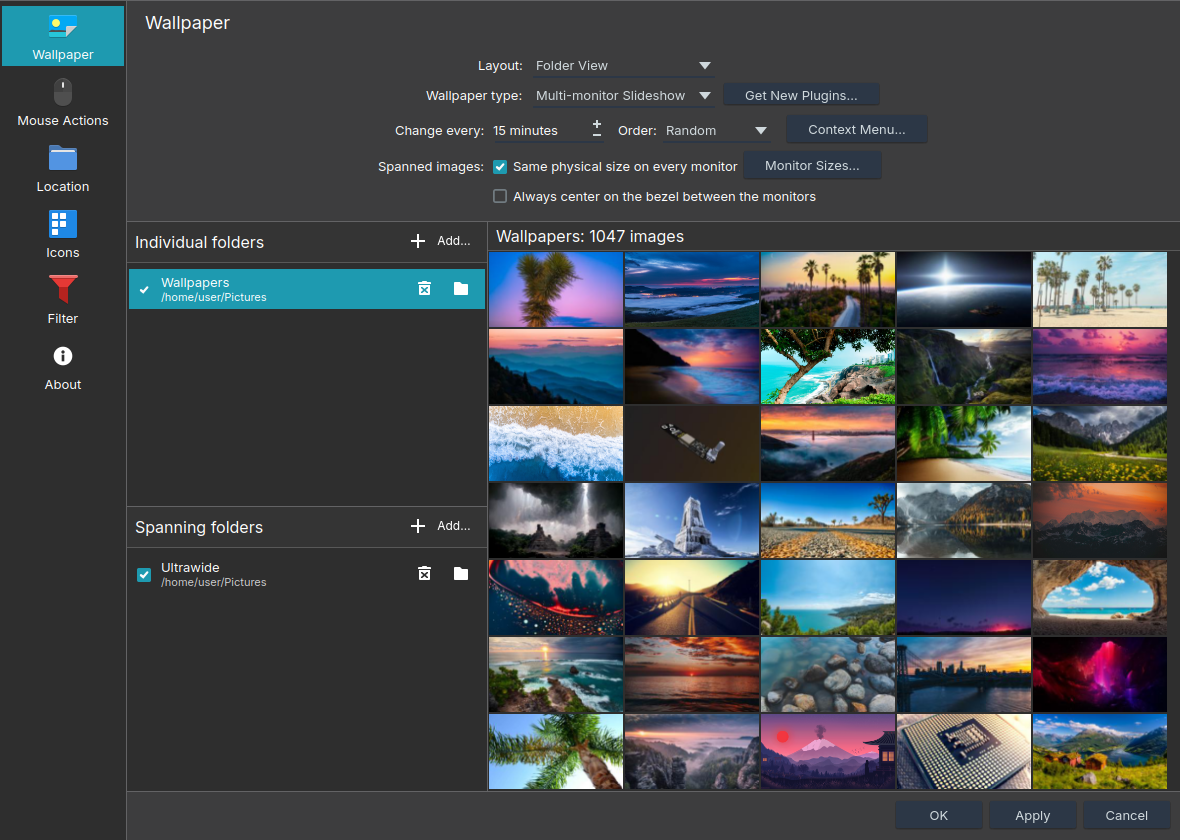
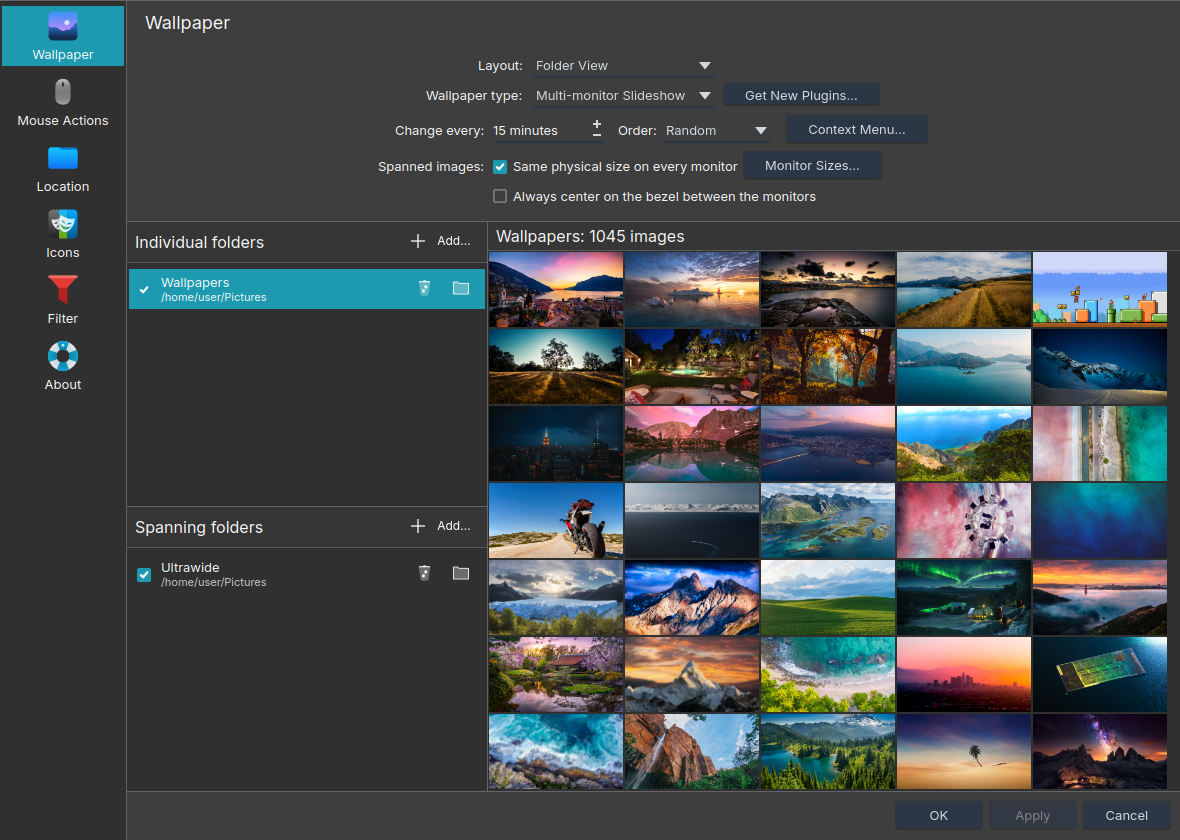
New settings screenshots: both folder views and the three popups
settings.png is retaken, settings-spanning.png shows a spanning folder's
wide previews, and order.png, context-menu.png and monitor-sizes.png show
each popup open over the whole dialog.

diff --git a/docs/index.html b/docs/index.html
@@ -83,8 +83,12 @@ utils/deploy.sh</pre>
       <li>Choose how often the image changes and in which order, then click <b>Apply</b>.</li>
     </ol>
     <figure class="shot">
-      <img src="images/settings.png" width="1180" height="840" alt="The Desktop Folder Settings dialog with Multi-monitor Slideshow as the wallpaper type: Change every, Order and Context Menu, the spanned-image options, the individual and spanning folders on the left, and thumbnails of the selected folder on the right">
+      <img src="images/settings.png" width="1180" height="840" alt="The Desktop Folder Settings dialog with Multi-monitor Slideshow as the wallpaper type: Change every, Order and Context Menu, the spanned-image options, the individual and spanning folders on the left, and thumbnails of the selected individual folder on the right">
       <figcaption>The settings, under Desktop and Wallpaper. Untick a folder to leave it out without removing it; click one to see its images.</figcaption>
+    </figure>
+    <figure class="shot">
+      <img src="images/settings-spanning.png" width="1180" height="840" loading="lazy" alt="The same dialog with the spanning folder selected: its wide images are shown three to a row">
+      <figcaption>A spanning folder shows wide previews.</figcaption>
     </figure>
     <p>Hover any setting for an explanation. The <a href="https://github.com/VasilKalchev/plasma-multi-monitor-slideshow#readme">README</a> covers every setting, the limitations and troubleshooting.</p>
   </section>

diff --git a/README.md b/README.md
@@ -91,7 +91,11 @@ and restarts Plasma. To update, run `git pull` and `utils/deploy.sh` again.
 
 ### Settings
 
-![The Desktop Folder Settings dialog with Multi-monitor Slideshow as the wallpaper type: Change every, Order and Context Menu, the spanned-image options, the individual and spanning folders on the left, and thumbnails of the selected folder on the right](docs/images/settings.png)
+![The Desktop Folder Settings dialog with Multi-monitor Slideshow as the wallpaper type: Change every, Order and Context Menu, the spanned-image options, the individual and spanning folders on the left, and thumbnails of the selected individual folder on the right](docs/images/settings.png)
+
+Click a folder to see its images. A spanning folder shows wide previews:
+
+![The same dialog with the spanning folder selected: its wide images are shown three to a row](docs/images/settings-spanning.png)
 
 | Setting | What it does |
 |---|---|
@@ -101,6 +105,12 @@ and restarts Plasma. To update, run `git pull` and `utils/deploy.sh` again.
 | **Same physical size on every monitor** | Scales spanned images per monitor, so they have the same real size on monitors with different pixel sizes, and lines continue straight across the bezel. |
 | **Monitor Sizes…** | The size of each monitor, as it reports it. Correct a monitor that reports a wrong size here. |
 | **Always center on the bezel between the monitors** | Off by default. Full-width images are always centered on the bezel; with this on, panoramas are too, instead of on your monitors as a whole. See below. |
+
+**Order** and **Context Menu…** open these lists:
+
+![The Order list open over the dialog: Random, A to Z, Z to A, Newest first, Oldest first](docs/images/order.png)
+
+![The Context Menu list open over the dialog: tickboxes for the "Wallpaper" separator label, Open Image, Next, Next Individual and Next Spanned](docs/images/context-menu.png)
 
 The spanned-image settings are grayed out when they make no difference,
 for example when your monitors are identical and lined up, and the reason
@@ -212,7 +222,7 @@ especially). Click **Monitor Sizes…** in the settings and enter the
 monitor's real diagonal. An arrow appears next to a corrected size to go
 back to the reported one.
 
-![The Monitor Sizes popup: each monitor by make, model and connector, with its diagonal in inches](docs/images/monitor-sizes.png)
+![The Monitor Sizes popup open over the dialog: each monitor by make, model and connector, with its diagonal in inches](docs/images/monitor-sizes.png)
 
 **Checking the alignment.** Put
 [`utils/span-test-5120x1440.png`](utils/span-test-5120x1440.png) in a

diff --git a/AGENTS.md b/AGENTS.md
@@ -58,11 +58,15 @@ script refuses to replace a folder that is a git checkout.
 - `main.qml` can't run under the `qml` tool (it needs `WallpaperItem` and
   Plasma's imports), so verifying means deploying and restarting the
   shell.
-- **Screenshots of the settings** (`docs/images/settings.png`, the
-  Desktop Folder Settings dialog, and `monitor-sizes.png`) are
-  `grabToImage()` captures made from inside the page, so no other window
-  can end up in them. Copy the plugin files (with `utils/`) to a scratch
-  folder, add a temporary `Timer` to that copy's `config.qml` that sets
+- **Screenshots of the settings** (in `docs/images/`: `settings.png`
+  and `settings-spanning.png`, the Desktop Folder Settings dialog with an
+  individual and a spanning folder selected, and `order.png`,
+  `context-menu.png` and `monitor-sizes.png`, the same dialog with a
+  popup open) are `grabToImage()` captures made from inside the page, so
+  no other window can end up in them. A popup is not part of the dialog's
+  grab: grab it on its own and paste it on at its position in the window
+  (`magick dialog.png popup.png -geometry +X+Y -composite out.png`).
+  Copy the plugin files (with `utils/`) to a scratch folder, add a temporary `Timer` to that copy's `config.qml` that sets
   `root.Window.window` to 1180×840 and `cfg_SinglePaths`/`cfg_SpanPaths`
   to the folders to show, waits for the thumbnails, then grabs the
   dialog's top item (walk `parent` up from `root` to the child of
@@ -83,7 +87,7 @@ script refuses to replace a folder that is a git checkout.
   Plasma 6 Wallpaper Plugins**, the category Get New Plugins… reads. Its
   thumbnail (also the README's and the site's picture) is
   `docs/images/preview.png`, drawn by `utils/make-preview.py` (needs
-  Inkscape and ImageMagick); `settings.png` is its second screenshot, and
+  Inkscape and ImageMagick); the settings screenshots are its other gallery pictures, and
   its logo is the preview with a larger name on a transparent background, drawn by `utils/make-logo.py` (needs cairosvg, pillow and numpy; `store/logo.png` in the notes folder). The website is
   GitHub Pages, served from `docs/` on `main`.
 
